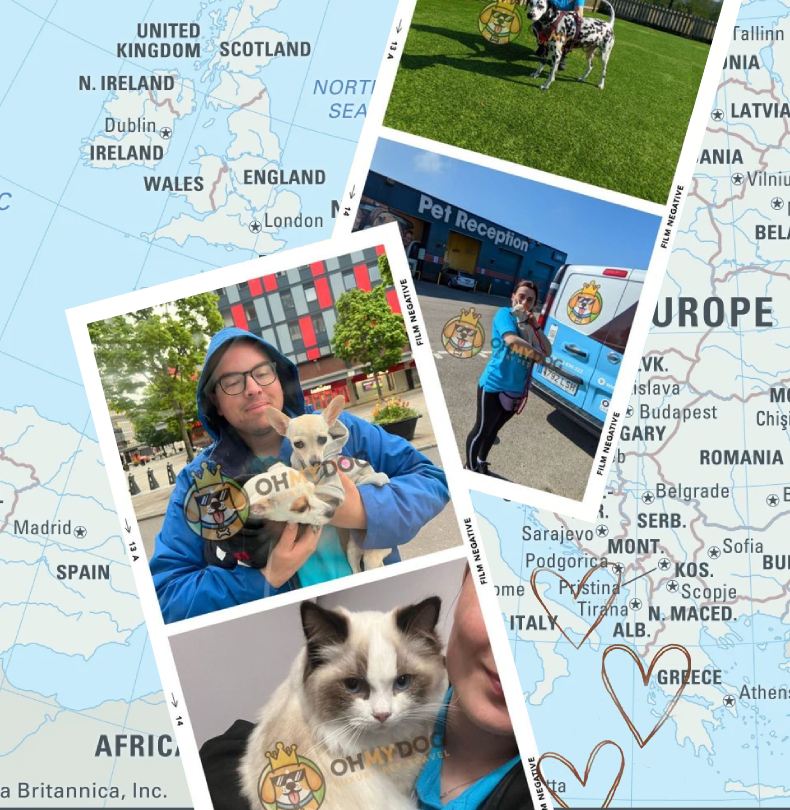
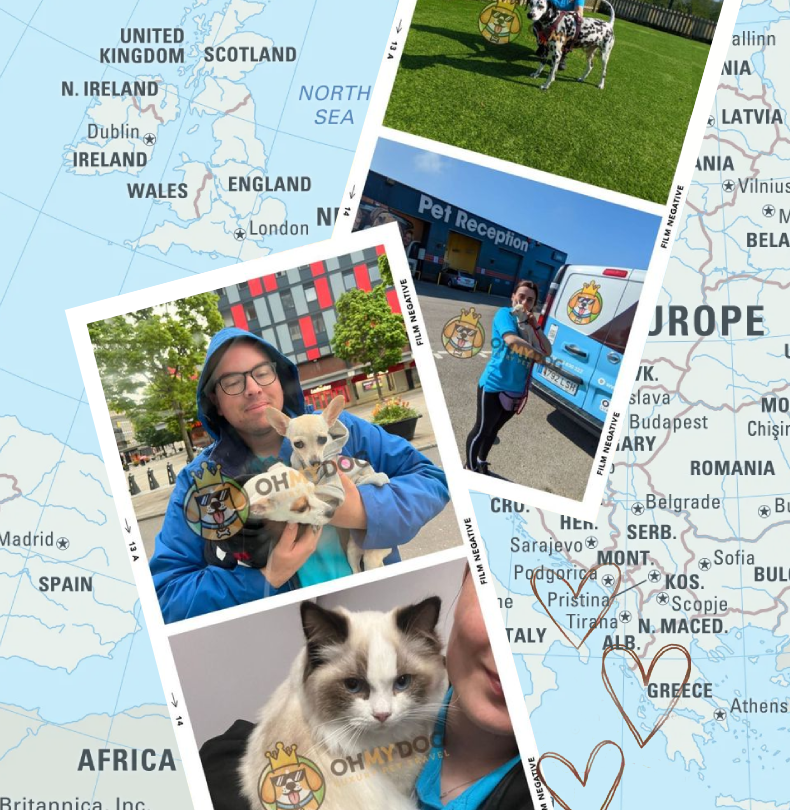
Fix hero slider

Changed region(s): [[0.6076, 0.0, 1.0, 1.0], [0.0608, 0.0, 0.4861, 0.3395], [0.0, 0.4938, 0.243, 1.0]]

diff --git a/src/components/hero-with-slideshow/hero-with-slideshow.scss b/src/components/hero-with-slideshow/hero-with-slideshow.scss
@@ -85,95 +85,46 @@
         }
     }
 
-    .carousel * {
-        box-sizing: border-box;
-        border-radius: 12px;
-
-        & .slide {
-            opacity: 0.5;
-            scale: 0.9;
-            width: auto;
-            max-height: 80px;
-
-            @media (min-width: 650px) {
-                max-height: unset;
-                scale: 0.9;
-            }
-        }
-
-        .slide.selected {
-            opacity: 1;
-            scale: 1;
-            width: 50%;
-            max-height: unset;
-
-            @media (min-width: 650px) {
-                max-height: unset;
-                scale: 1;
-            }
-        }
-
-        .selectedItem img {
-            opacity: 5;
-            max-height: 250px;
-
-            @media (min-width: 650px) {
-                max-height: unset;
-            }
-        }
-    }
+    .swiper.swiper-cards {
+        width: 230px;
+        height: 240px;
     
-    .carousel-root {
-        width: 100%;
-
+        @media (min-width: 400px) {
+            width: 290px;
+            height: 300px;
+        }
+    
         @media (min-width: 650px) {
-            width: 50%;
+            width: 270px;
+            height: 380px;
+            margin-right: 5%;
         }
-
-        @media (min-width: 800px) {
-            width: 40%;
+    
+        @media (min-width: 900px) {
+            width: 300px;
+            height: 410px;
+            margin-right: auto;
+        }
+    
+        @media (min-width: 1100px) {
+            width: 360px;
+            height: 420px;
+            margin-right: auto;
         }
     }
-}
+      
+    .mySwiper .swiper-slide {
+        display: flex;
+        align-items: center;
+        justify-content: center;
+        border-radius: 18px;
+        font-size: 22px;
+        font-weight: bold;
+        color: #fff;
 
-.swiper.swiper-cards {
-    width: 228px;
-    height: 300px;
-
-    @media (min-width: 400px) {
-        width: 296px;
-        height: 400px;
-    }
-
-    @media (min-width: 650px) {
-        width: 270px;
-        height: 350px;
-        margin-right: 5%;
-    }
-
-    @media (min-width: 900px) {
-        width: 300px;
-        height: 390px;
-        margin-right: auto;
-    }
-
-    @media (min-width: 1100px) {
-        width: 370px;
-        height: 480px;
-        margin-right: auto;
-    }
-}
-  
-.swiper-slide {
-    display: flex;
-    align-items: center;
-    justify-content: center;
-    border-radius: 18px;
-    font-size: 22px;
-    font-weight: bold;
-    color: #fff;
-
-    img {
-        height: inherit;
-    }
+        img {
+            height: inherit;
+            width: auto;
+        }
+    }    
 }
